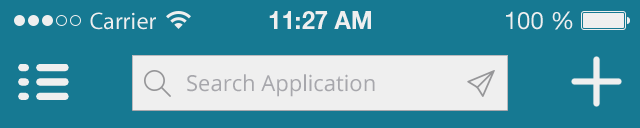
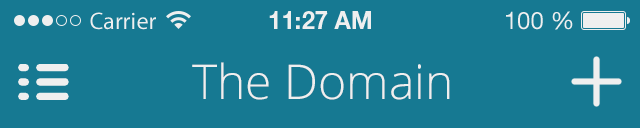
Added beginnings of map views, versions 1 and 2

Changed region(s): [[0.1875, 0.4062, 0.8125, 0.875]]

diff --git a/components/map-components.html b/components/map-components.html
@@ -1,0 +1,16 @@
+<header title="Map Overlay Options" class="" data-doneness="iterated" data-description="These are the current variations for the map overlay when viewing details for a given asset."></header>
+<article id="variations">
+  <section data-variation="default" title="v1">
+	<img src="map-images/map-overlay-v1.png">	
+  </section>
+  <section data-variation="alternative1" title="v2">
+    <img src="map-images/map-overlay-v2.png">
+  </section>
+</article>
+<aside class="notes">
+  <ul>
+  	<li>map options overall - The map is definitely proving to be the most difficult for me to come up with something I truly love.  Obviously there are some map pins present on the map itself, but not much else.  I created the pins for controllers.  I like the roundness of them, and they certainly stand out on the map.  I had another version of the pin that had the controller icon (clock) in the middle instead of the number.  If controllers really will just have numbers and not unique names, then I think the numbers make sense.  I obviously still need to work on zones, etc.  The main focus here is the overlays, although I think they are still far from ideal as well.  I'm hoping that with a few iterations here on design, we can get somewhere that's kind of close to what we have in mind, but think we should follow that up fairly quickly with some working prototypes.  I think the zooming functionality, real zone coordinates, etc. are going to be key in making final decisions around the map design and interactions.</li>
+  	<li>v1 - Fairly basic.  Relatively close to what appeared in the majority of the flow prototypes and sketches.  No edit button here.</li>
+  	<li>v2 - An option for actions.  This allows for the user to edit the Controller location, or zone region outline.  Also considered this option because I was afraid v1 when paired with the nav bar, looked a little icon-heavy on the right side of the screen.</li>
+  </ul>
+</aside>

diff --git a/index.html b/index.html
@@ -44,6 +44,7 @@
         <li>8-29-13: Created Site</li>
         <li>9-29-13: Added first versions of Survey List screen and Controller List screen.  This version contains 2 tab bar versions, 3 nav bar versions, and 4 survey list versions.</li>
         <li>9-30-13: Added notes to the survey list component variations.</li>
+        <li>10-2-13: Added map screen with one newer version of the nav bar, and two map versions.</li>
       </ul>
       <h3>Things to Note</h3>
       <ul>
@@ -53,6 +54,10 @@
         		<li>To get more information and notes about each component, view them from the COMPONENTS view.</li><li>When viewing the full page, the right arrow for flipping through components has a bug.  Use the left arrow to view the variations</li>
         		<li>There are a number of bugs and odd things that exist in this prototyping tool.  I plan on fixing bugs and improving it as we go along.  Definitely point things out as you see them concerning the tool itself, and I can make improvements.  First things on my list are fixing the forward arrow bug when flipping through components, and improving the components detail pages.  The notes are in an odd place and clicking the versions in the list on the right does not do anything right now.  It would be great if it scrolled right to the component, and if the notes for the component displayed directly above the component itself, rather than just at the top of the entire page.</li>
         	</ul>
+    	<li>10-2-13: 
+    		<ul> 
+    			<li>VERY rough draft.  Please suggest, suggest, suggest.  Still need to add ideas for zones and other assets.</li>
+    		</ul>
 		</li>
       </ul>
     </aside>

diff --git a/map.html b/map.html
@@ -1,0 +1,16 @@
+<!doctype html>
+<html lang="en">
+<head>
+	<meta charset="UTF-8">
+	<title>Map</title>
+</head>
+<body>
+	<section class="viewport">
+		<div class="mobile-container">
+			<img src="navbar-images/navbar-list-v4.png">
+			<div data-component="map-components" class="list-components"></div>
+			<img src="tabbar-images/tabbar-map-v1.png" class="tab-bar">
+		</div>
+	</section>
+</body>
+</html>1

diff --git a/stylesheets/app.css b/stylesheets/app.css
@@ -47,3 +47,8 @@ a {
 .list-components {
   margin-top: -5px;
 }
+
+/* line 43, ../sass/_prototype.scss */
+.tab-bar {
+  margin-top: -5px;
+}

diff --git a/sass/_prototype.scss b/sass/_prototype.scss
@@ -39,3 +39,7 @@ a {
 .list-components {
 	margin-top: -5px;
 }
+
+.tab-bar {
+	margin-top: -5px;
+}
